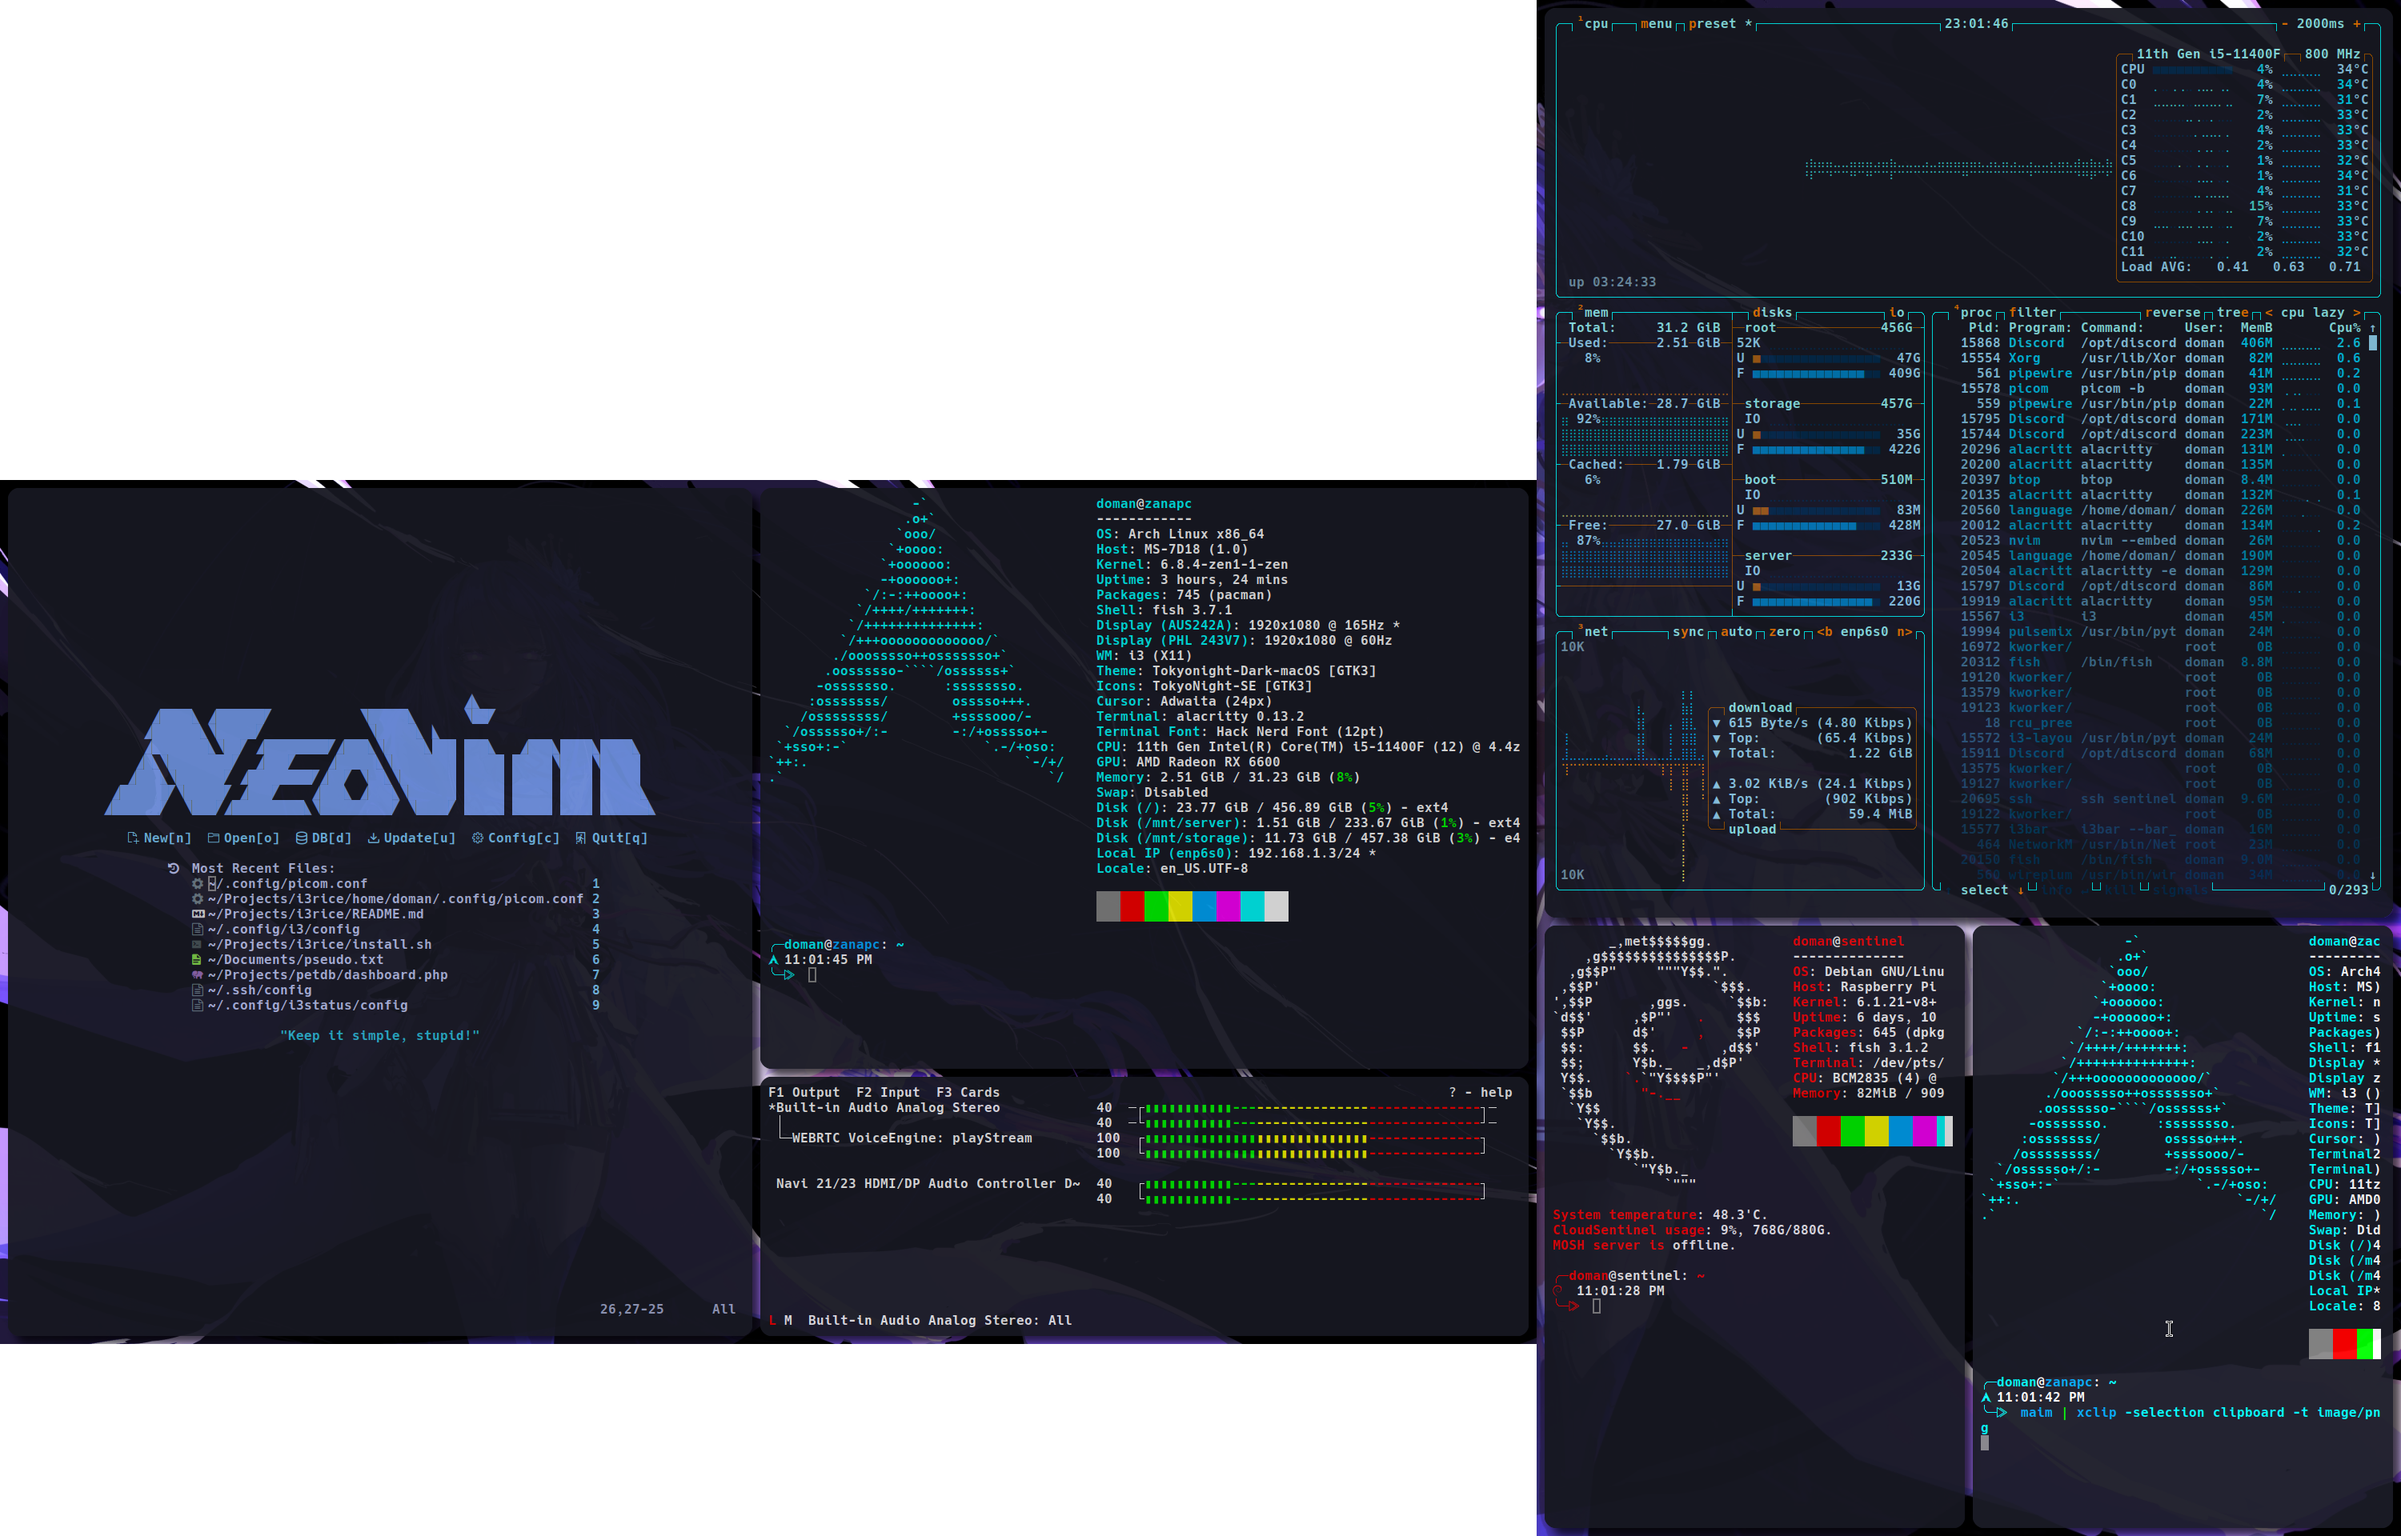
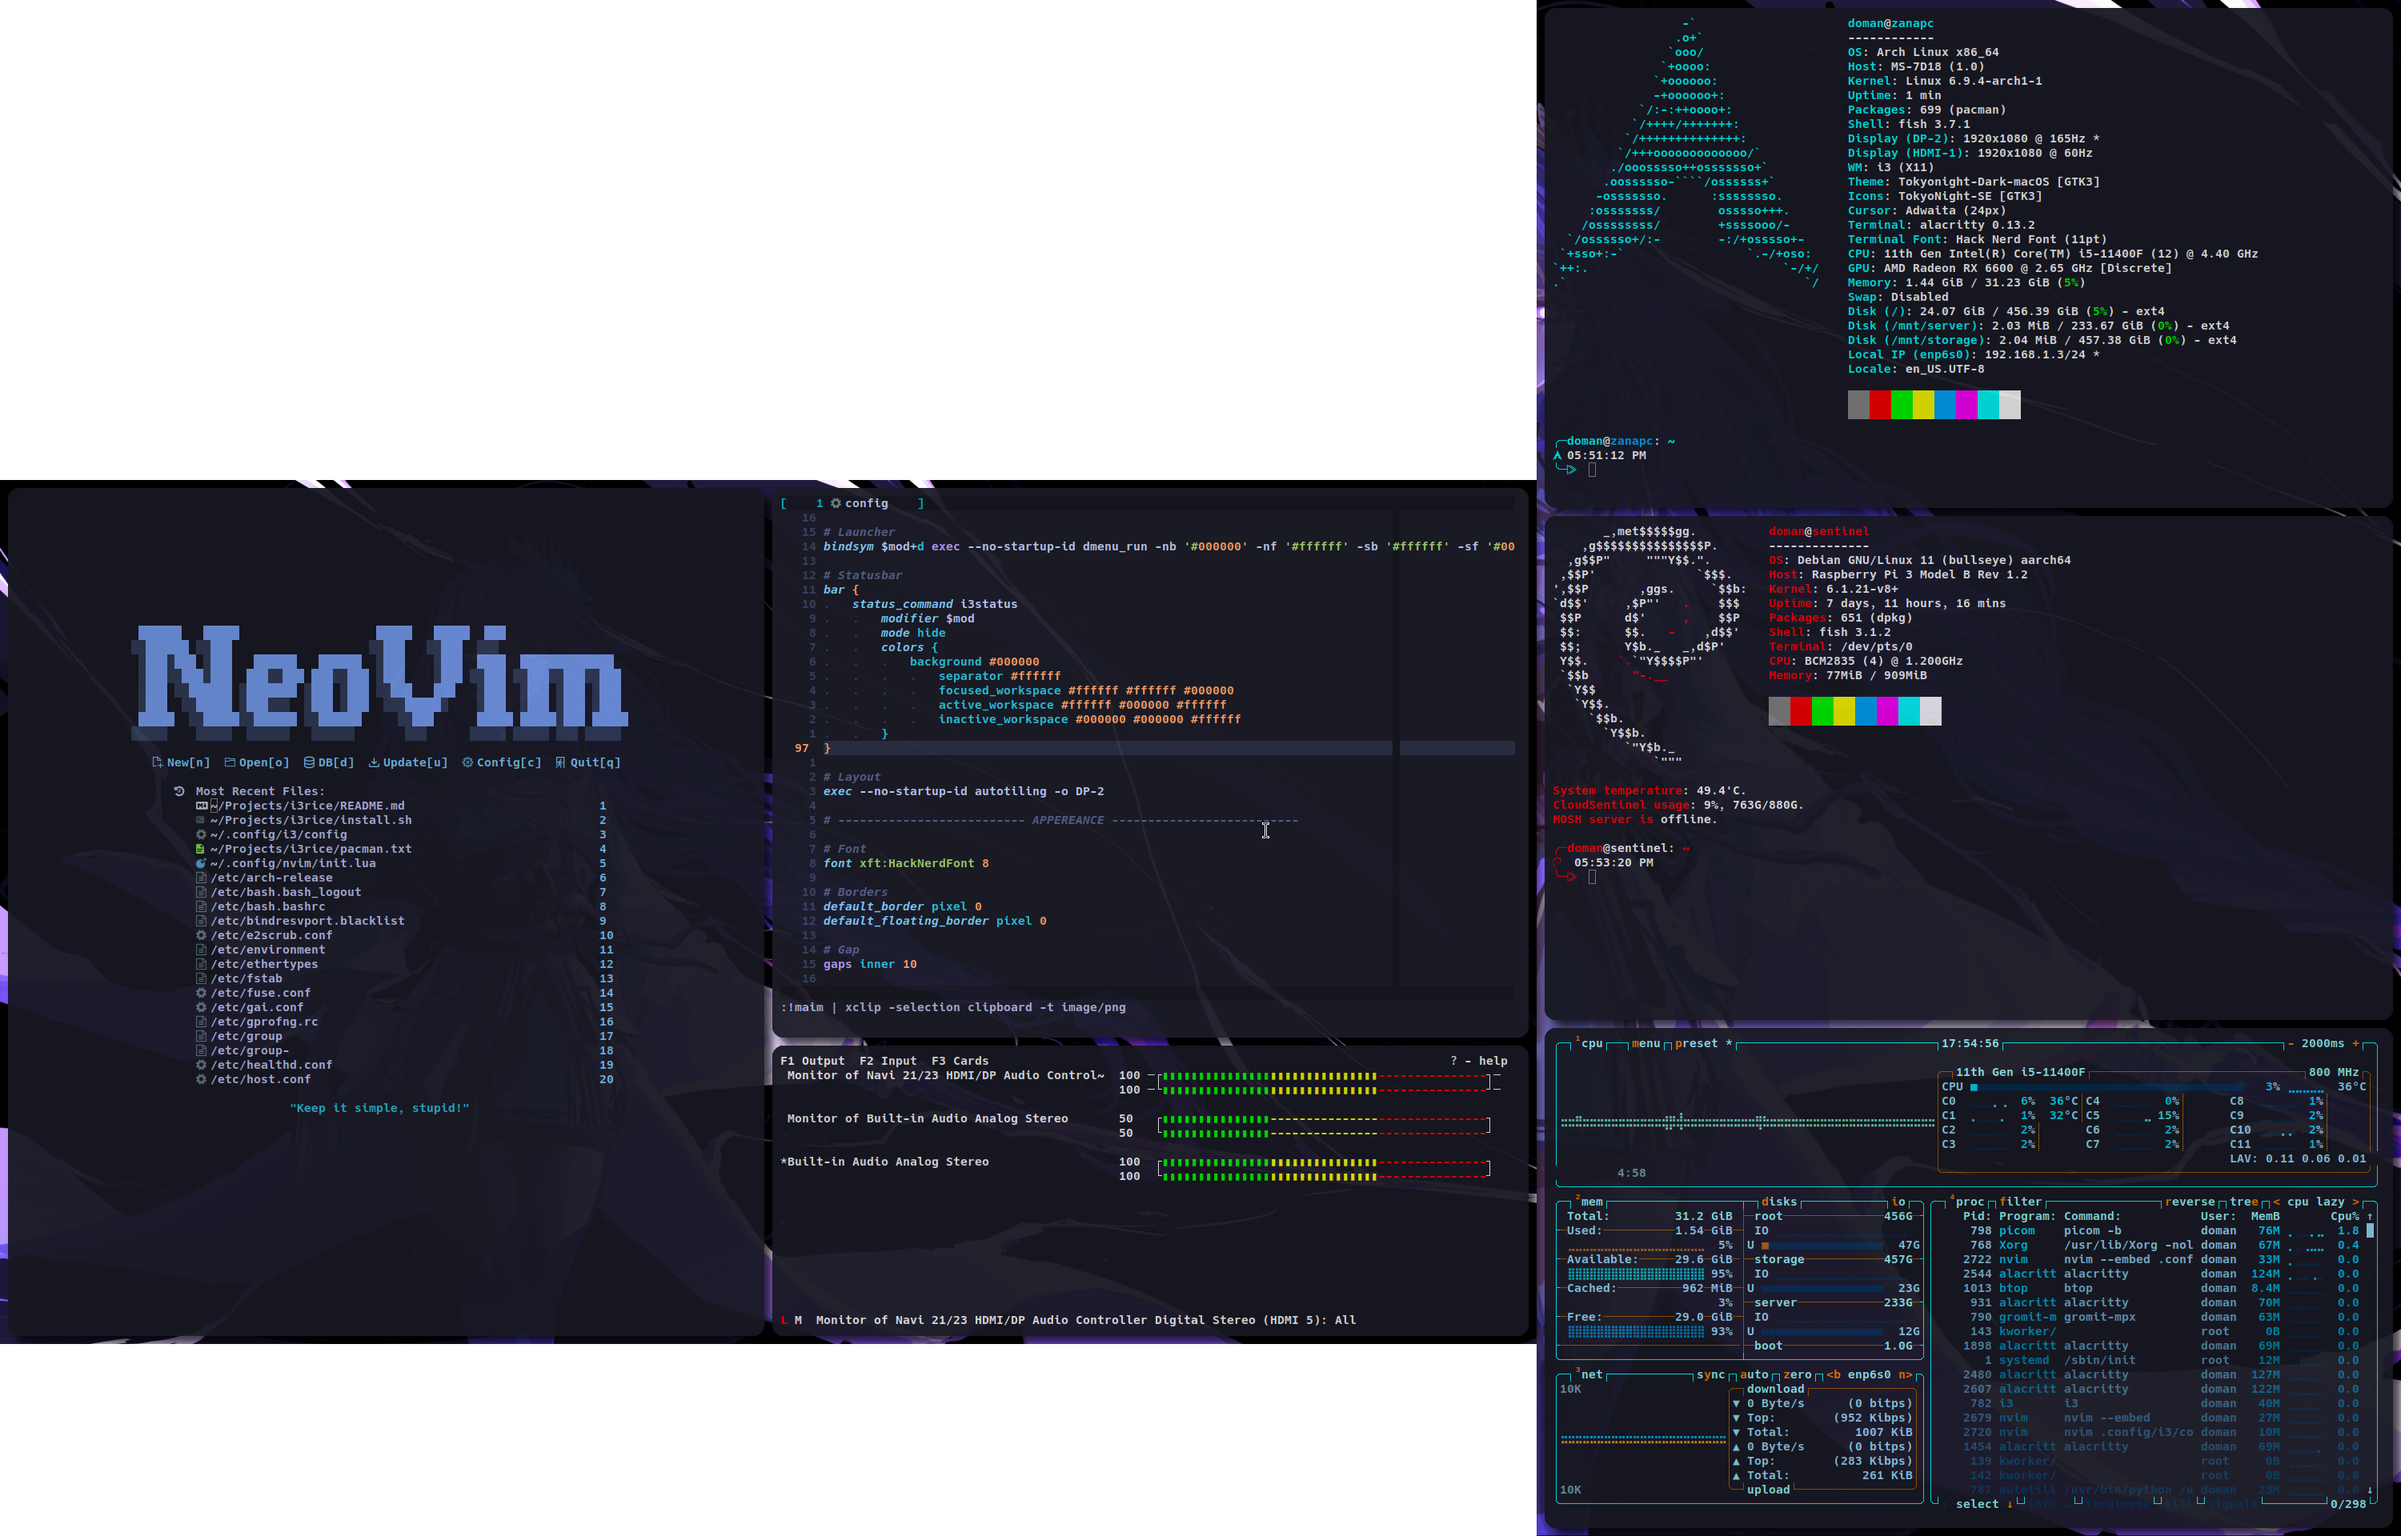
.

Changed region(s): [[0.31, 0.0, 1.0, 1.0], [0.031, 0.4062, 0.279, 0.7188], [0.651, 0.125, 0.682, 0.2188]]

diff --git a/README.md b/README.md
@@ -1,9 +1,9 @@
 <img src="preview.png">
 
-# Packages (747)
+# Packages (699)
 Dependencies: git, yay
 
-## X.org
+## X11
 xorg-server\
 xorg-xinit\
 xorg-xinput\
